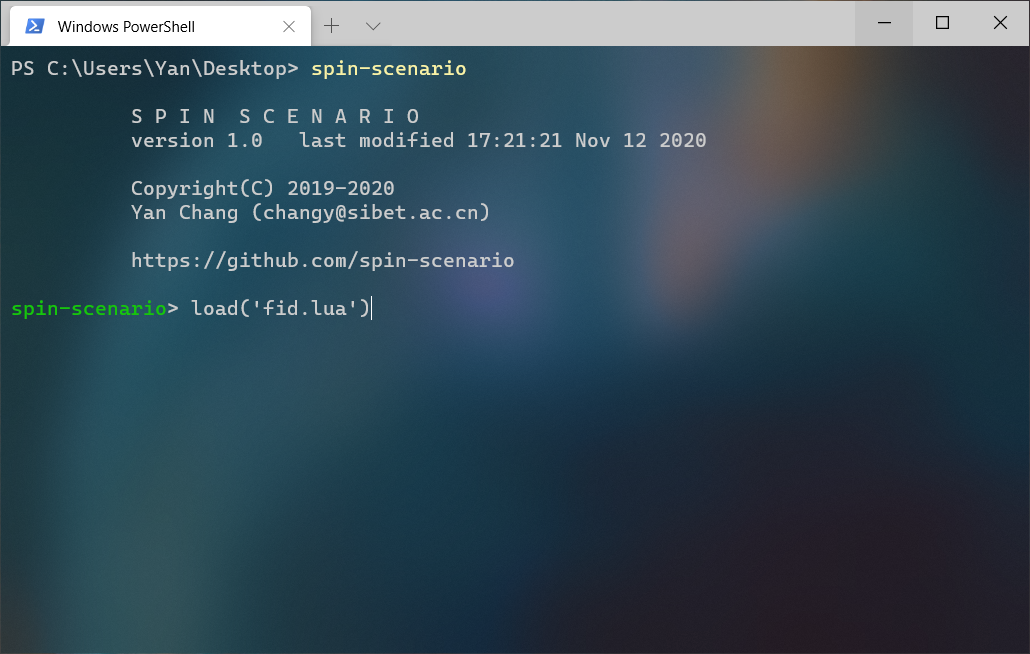
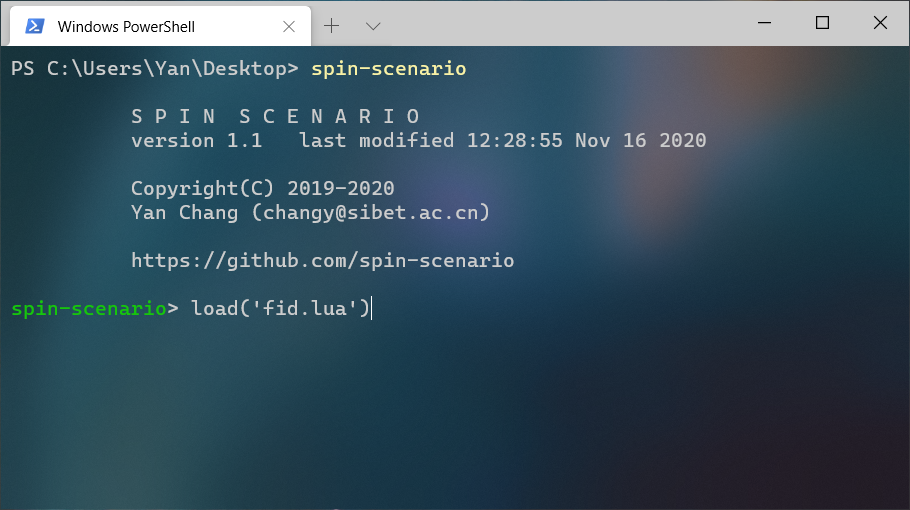
commit.

Changed region(s): [[0.0, 0.0, 1.0, 0.5294], [0.0, 0.5882, 0.4308, 0.6176], [0.7077, 0.3824, 0.7692, 0.4412]]

diff --git a/src/kernel/utilities/ssl_config.cpp b/src/kernel/utilities/ssl_config.cpp
@@ -707,7 +707,7 @@ void ssl_version_output() {
   sprintf(arr_time, "%s", __TIME__);  
   std::cout << std::endl;
   std::cout << boost::format("%10tS P I N  S C E N A R I O") << std::endl;
-  std::cout << boost::format("%10t%s") % "version 1.0   last modified " << arr_time <<" "<< arr_date << std::endl;
+  std::cout << boost::format("%10t%s") % "version 1.1   last modified " << arr_time <<" "<< arr_date << std::endl;
 
   std::cout << std::endl;
   std::cout << boost::format("%10t%s") % "Copyright(C) 2019-2020" << std::endl;

diff --git a/README.md b/README.md
@@ -21,12 +21,11 @@ Quick Start
 
   * Open the terminal and start the environment with `spin-scenario`.
   * To run a scenario script, simply use the command like `load('fid.lua')`. 
-  * You may also run script snippet on the terminal, e.g. to process the results manually after the scenario playing. 
   * To switch to old script, use the up and down key.  
   * To quit the program, use `q`.
   
 <p align="center">
-<img src="docs/source/media/cmd_screen.png"  width="640">
+<img src="docs/source/media/cmd_screen.png"  width="480">
 </p>
 
 As a start, we show a simple [FID](examples/seq/acrylic.lua) sequence as follow:  
